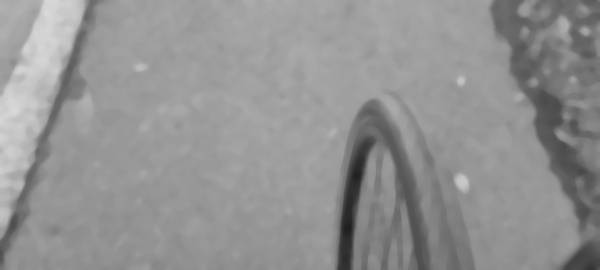
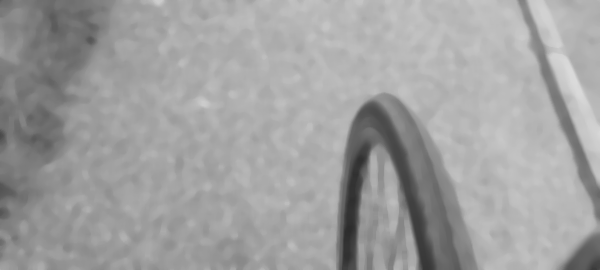
strait lines

diff --git a/test.py b/test.py
@@ -3,9 +3,9 @@ import cv2
 import copy
 import matplotlib.pyplot as plt
 import pickle
-IMGS = pickle.load(open("imagess.p", "rb"))
+IMGS = pickle.load(open("imagesS.p", "rb"))
 
-img = IMGS[120]
+img = IMGS[221]
 downscale = 1
 
 
@@ -35,7 +35,7 @@ log_image = np.array(log_image, dtype=np.uint8)
 #log_image = cv2.GaussianBlur(log_image, (13,13), 40)
 #bilateral = cv2.bilateralFilter(log_image, 50, 1, 1)
 hist = cv2.calcHist([log_image],[0],None,[256],[0,256])
-th3 = cv2.adaptiveThreshold(log_image, 255, cv2.ADAPTIVE_THRESH_GAUSSIAN_C, cv2.THRESH_BINARY_INV,9,1)
+th3 = cv2.adaptiveThreshold(log_image, 255, cv2.ADAPTIVE_THRESH_GAUSSIAN_C, cv2.THRESH_BINARY_INV,7,1)
 
 
 
@@ -51,11 +51,11 @@ for i in range(0, nlabels - 1):
     if areas[i] >= 100:   #keep
         th3[labels == i + 1] = 255
 
-linesP = cv2.HoughLinesP(th3, 1, 1* np.pi / 180, 100, None, 100, 40)
+linesP = cv2.HoughLinesP(th3, 0.6, 10* np.pi / 180, 45, None, 90, 5)
 if linesP is not None:
         for i in range(0, len(linesP)):
             l = linesP[i][0]
-            cv2.line(th3, (l[0], l[1]), (l[2], l[3]), (0,0,255), 3, cv2.LINE_AA)
+            cv2.line(th3, (l[0], l[1]), (l[2], l[3]), (255,0,0), 30, cv2.LINE_AA)
 
 nlabels, labels, stats, centroids = cv2.connectedComponentsWithStats(th3, None, None, None, 8, cv2.CV_32S)
 
